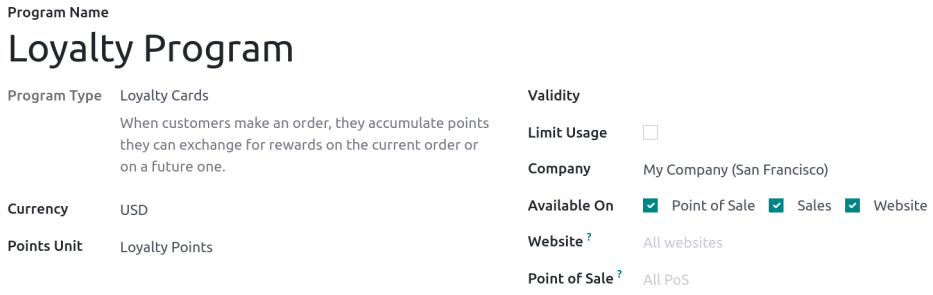
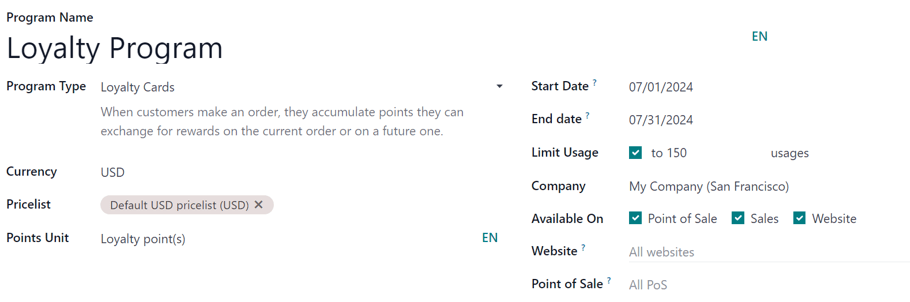
[IMP] sales: add pricelist to loyalty prgms
X-original-commit: 980b6ad41b6752d8f32327894a3d80bdb7f57f33

diff --git a/content/applications/sales/sales/products_prices/loyalty_discount.rst b/content/applications/sales/sales/products_prices/loyalty_discount.rst
@@ -32,43 +32,51 @@ Or, if there are already existing programs, select an existing program to edit i
    :alt: Discount and loyalty program template cards.
 
 .. note::
-   Templates only appear when no programs have been created, and they disappear once the first
+   Templates **only** appear when no programs have been created, and they disappear once the first
    program is created.
 
 Creating or editing a program opens the program form.
 
-The program form contains the following options:
-
-- :guilabel:`Program Name`: Enter the name of the program. The program name is *not* visible to the
-  customer.
-- :guilabel:`Program Type`: Select the desired :ref:`program type
-  <sales/pricing_management/program-types>`.
-- :guilabel:`Currency`: Select the currency used for the program.
-- :guilabel:`Points Unit`: Enter the name of the points used for the :guilabel:`Loyalty Cards`
-  program (e.g. `Loyalty Points`). The points unit name *is* visible to the customer. This field is
-  only available when the :guilabel:`Program Type` is set to :guilabel:`Loyalty Cards`.
-- :guilabel:`Validity`: Select the date until which the program is valid. Leave this field blank for
-  no end date, meaning the program is always valid and does not expire.
-- :guilabel:`Limit Usage`: Check this box and enter a number to limit the number of times the
-  program can be used during the :guilabel:`Validity` period.
-- :guilabel:`Company`: In the case of multiple companies, choose the company for which the program
-  is available.
-- :guilabel:`Available On`: Select the app(s) on which the program is available.
-- :guilabel:`Website`: Select the website(s) on which the program is available. Leave this field
-  blank to make it available on all websites.
-- :guilabel:`Point of Sale`: Select the point(s) of sale at which the program is available. Leave
-  this field blank to make it available at all :abbr:`PoS (Point of Sale)`.
-
 .. image:: loyalty_discount/price-programs.png
    :align: center
    :alt: Program options on the loyalty program form.
+
+The program form contains the following fields:
+
+- :guilabel:`Program Name`: Enter the name of the program in this field. The program name is **not**
+  visible to the customer.
+- :guilabel:`Program Type`: Select the desired :ref:`program type
+  <sales/pricing_management/program-types>` from the drop-down menu.
+- :guilabel:`Currency`: Select the currency used for the program.
+- :guilabel:`Pricelist`: If desired, select a pricelist from the drop-down menu to have this loyalty
+  program applied to a specific pricelist (and customers attached to the pricelist). More than one
+  pricelist can be selected in this field. When a single loyalty program is linked to several
+  pricelists, it makes it viable for different customer segments to have different pricelists, but
+  the *same* loyalty programs. If this field is left blank, the program applies to everyone,
+  regardless of pricelist.
+- :guilabel:`Points Unit`: Enter the name of the points used for the :guilabel:`Loyalty Cards`
+  program (e.g. `Loyalty Points`). The points unit name *is* visible to the customer. This field is
+  **only** available when the :guilabel:`Program Type` is set to :guilabel:`Loyalty Cards`.
+- :guilabel:`Start Date`: Select the date on which the program becomes valid. Leave this field blank
+  if the program should always be valid and not expire.
+- :guilabel:`End Date`: Select the date on which the program stops being valid. Leave this field
+  blank if the program should always be valid and not expire.
+- :guilabel:`Limit Usage`: If desired, tick this checkbox, and enter a number of :guilabel:`usages`
+  to limit the number of times the program can be used during the validity period.
+- :guilabel:`Company`: If working in a multi-company database, choose the one company for which the
+  program is available. If left blank, the program is available to all companies in the database.
+- :guilabel:`Available On`: Select the apps on which the program is available.
+- :guilabel:`Website`: Select a website on which the program is available. Leave this field blank to
+  make it available on all websites.
+- :guilabel:`Point of Sale`: Select the point(s) of sale at which the program is available. Leave
+  this field blank to make it available at all :abbr:`PoS (Point of Sale)`.
 
 .. note::
    The options available on the program form vary depending on the :ref:`Program Type
    <sales/pricing_management/program-types>` selected.
 
 All of the existing cards, codes, coupons, etc. that have been generated for the program are
-accessible through the smart button located in the upper-right corner of the form.
+accessible through the smart button located at the top of the form.
 
 .. image:: loyalty_discount/price-programs-items.png
    :align: center
@@ -83,16 +91,16 @@ The different :guilabel:`Program Types` available on the program form are:
 
 - :guilabel:`Coupons`: Generate and share single-use coupon codes that grant immediate access to
   rewards.
-- :guilabel:`Next Order Coupons`: Generate and share single-use coupon codes that grant access to
-  rewards on the customer's next order.
 - :guilabel:`Loyalty Cards`: When making purchases, the customer accumulates points to exchange for
   rewards on current and/or future orders.
 - :guilabel:`Promotions`: Set conditional rules for ordering products, which, when fulfilled, grant
   access to rewards for the customer.
 - :guilabel:`Discount Code`: Set codes which, when entered upon checkout, grant discounts to the
   customer.
-- :guilabel:`Buy X Get Y`: For every X item bought, the customer is granted 1 credit. After
-  accumulating a specified amount of credits, the customer can trade them in to receive Y item.
+- :guilabel:`Buy X Get Y`: for every (X) item bought, the customer is granted 1 credit. After
+  accumulating a specified amount of credits, the customer can trade them in to receive (Y) item.
+- :guilabel:`Next Order Coupons`: Generate and share single-use coupon codes that grant access to
+  rewards on the customer's next order.
 
 Conditional rules
 -----------------
